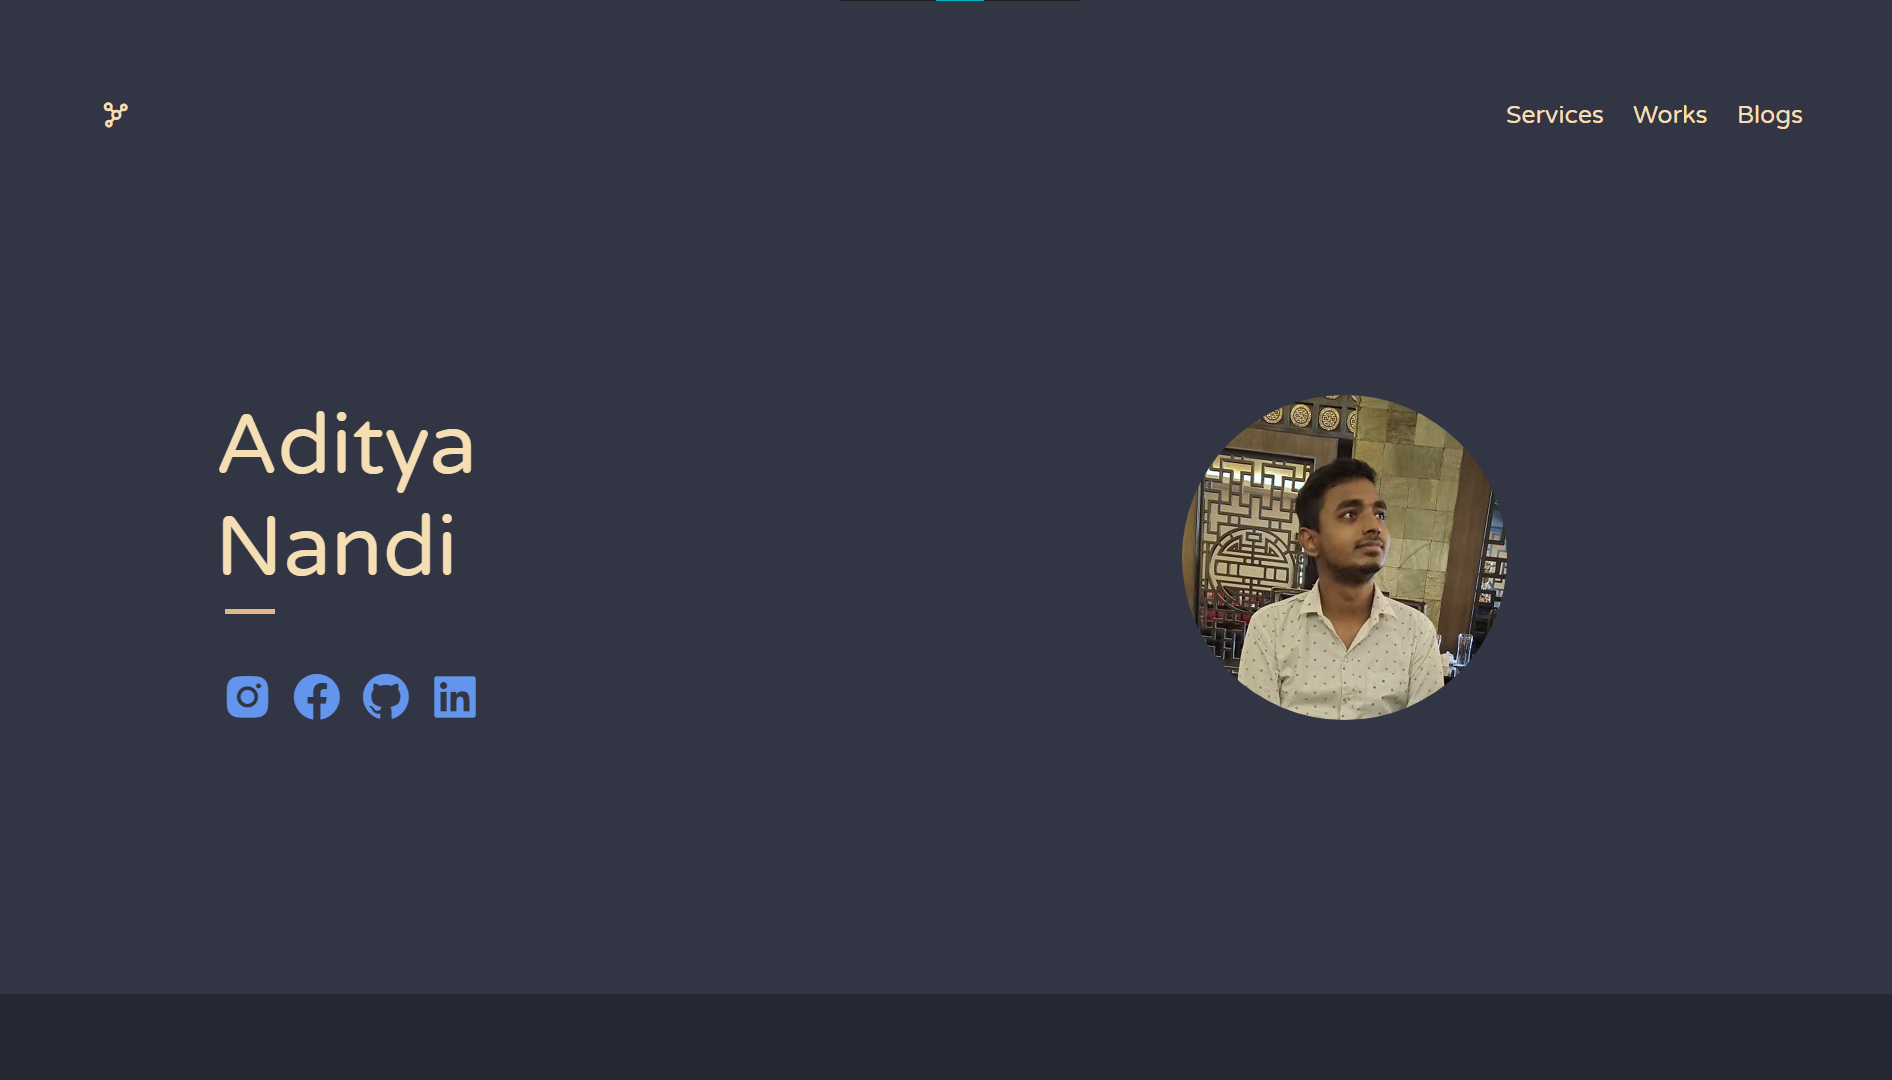
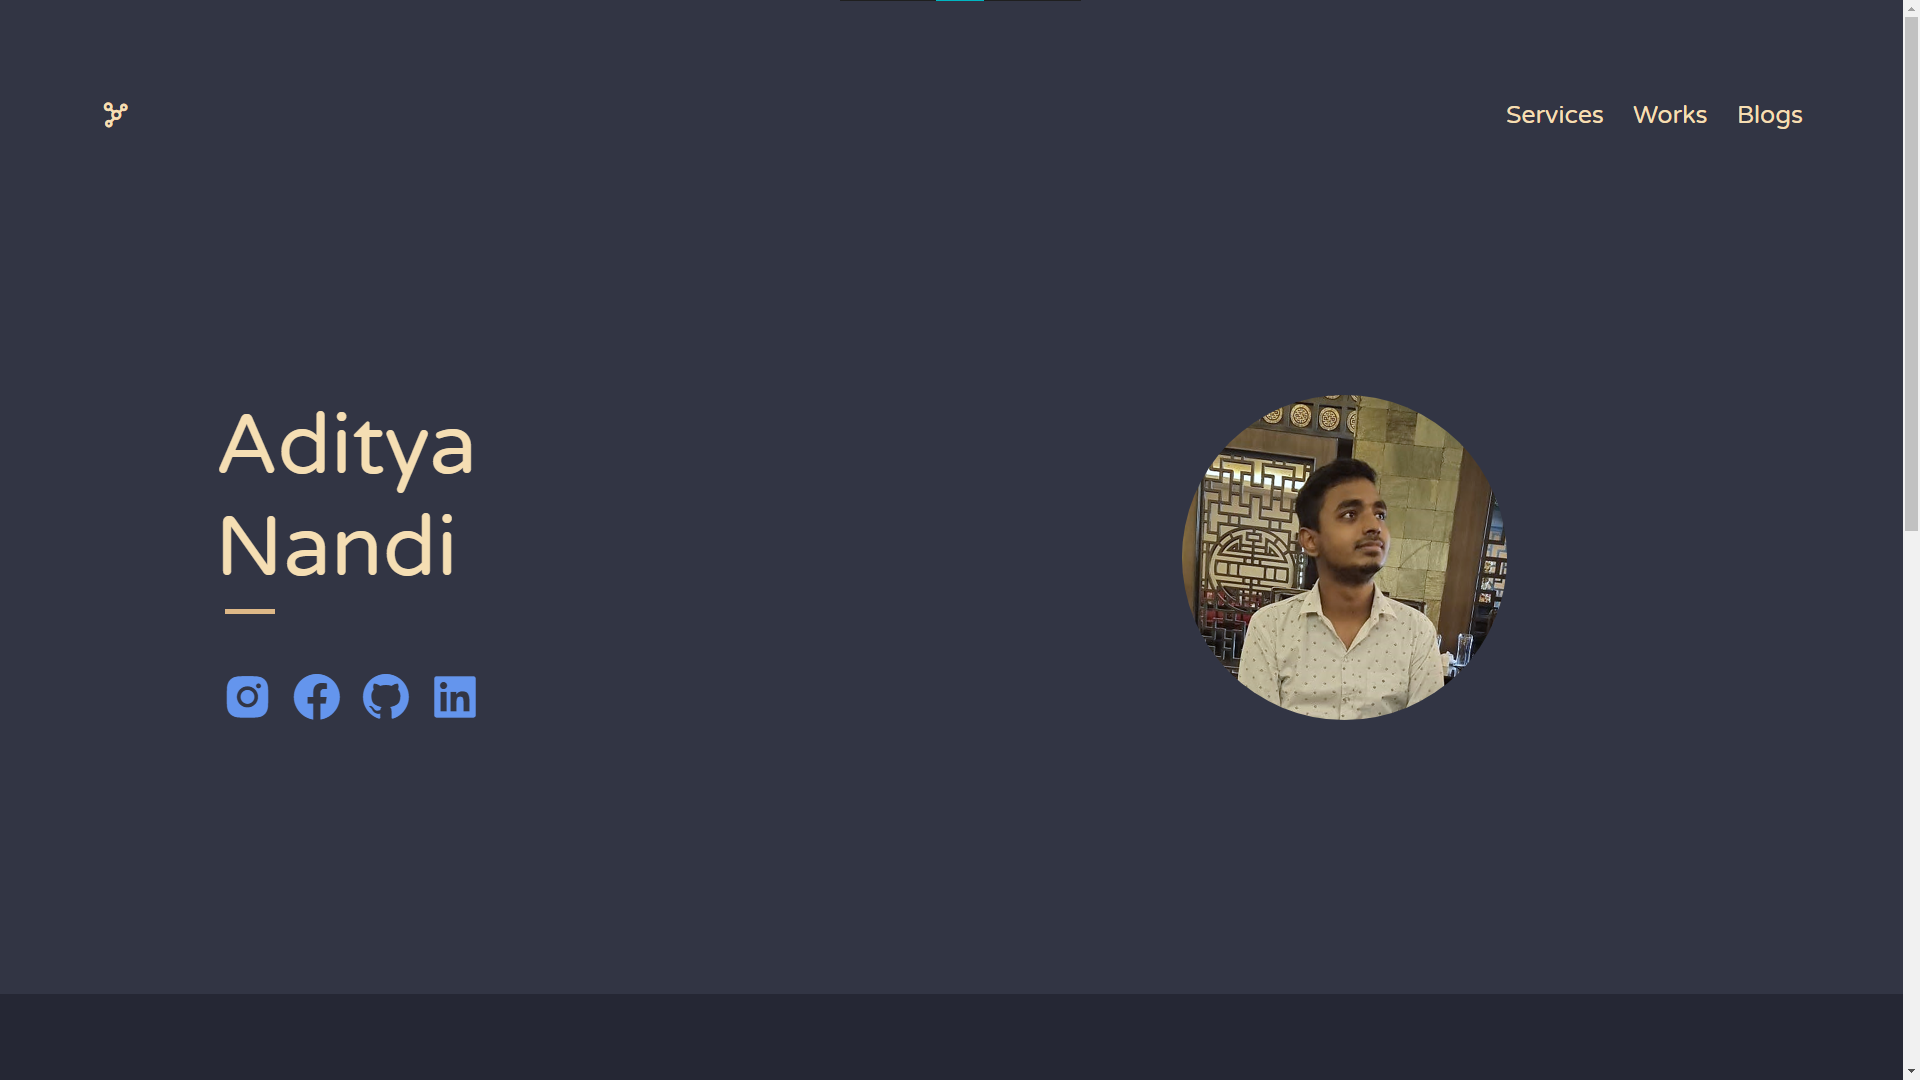
Some minor changes

diff --git a/index.html b/index.html
@@ -22,14 +22,14 @@
                     <div id="dash"></div>
                     <div id="spacer"></div>
                     <div class="icons">
-                        <span><i class='bx bxl-instagram-alt'></i></span>
-                        <span><i class='bx bxl-facebook-circle' ></i></span>
-                        <span><i class='bx bxl-github' ></i></span>
-                        <span><i class='bx bxl-linkedin-square' ></i></span>
+                        <a href="https://www.instagram.com/darth_1324/"><i class='bx bxl-instagram-alt'></i></a>
+                        <a href="https://www.facebook.com/aditya.nandi.353/"><i class='bx bxl-facebook-circle' ></i></a>
+                        <a href="https://github.com/adi323"><i class='bx bxl-github' ></i></a>
+                        <a href="https://www.linkedin.com/in/rajib-lochan-nandi-4864581a7/"><i class='bx bxl-linkedin-square' ></i></a>
                     </div>
                 </div>
-                <div class="introitem" style="width: fit-content;" id="imge">
-                    <img src="src/circle-cropped.png" alt="">
+                <div class="introitem" id="imge">
+                    <img src="src/pic.jpg" alt="" style="height: 50vh;margin-top: -10vh;border-radius: 15px;">
                 </div>
             </div>
         </div>
@@ -43,7 +43,7 @@
                 <p id="medium">Lorem ipsum dolor sit amet consectetur<br> adipisicing elit. Unde, minima dol</p>
                 <div id="spacer"></div>
                 <div id="spacer"></div>
-                <a href="#" id="btn">
+                <a href="contact.html" id="btn">
                     Contact Me
                 </a>
             </div>

diff --git a/style.css b/style.css
@@ -131,11 +131,15 @@
     font-size: 85;
     color: wheat;
 }
-.icons span i{
+.icons a{
+    text-decoration: none;
+    color: cornflowerblue;
+}
+.icons a i{
     font-size: 55;
     margin:5px
 }
-.icons span i:hover{
+.icons a i:hover{
     color: white;
     transition: ease-in-out 0.6s infinite;
     cursor: pointer;
@@ -145,6 +149,8 @@
     transition: ease-in-out 0.6s infinite;
     cursor: pointer;
 }
+
+/*responsiveness*/
 @media only screen and (max-width: 1280px) {
     #in{
         margin-left: 22%;
@@ -157,6 +163,12 @@
     #two{
         left: 0;
         margin-left: 25%;
+    }
+    .proj{
+        padding:0
+    }
+    .projects{
+        padding: 25;
     }
     
 }

diff --git a/contact.html b/contact.html
@@ -1,0 +1,7 @@
+<head>
+    <body>
+        <div style="text-align: center;height: 100vh;">
+            <h1 style="font-size: xx-large;">404 SERVER ERROR</h1>
+        </div>
+    </body>
+</head>
